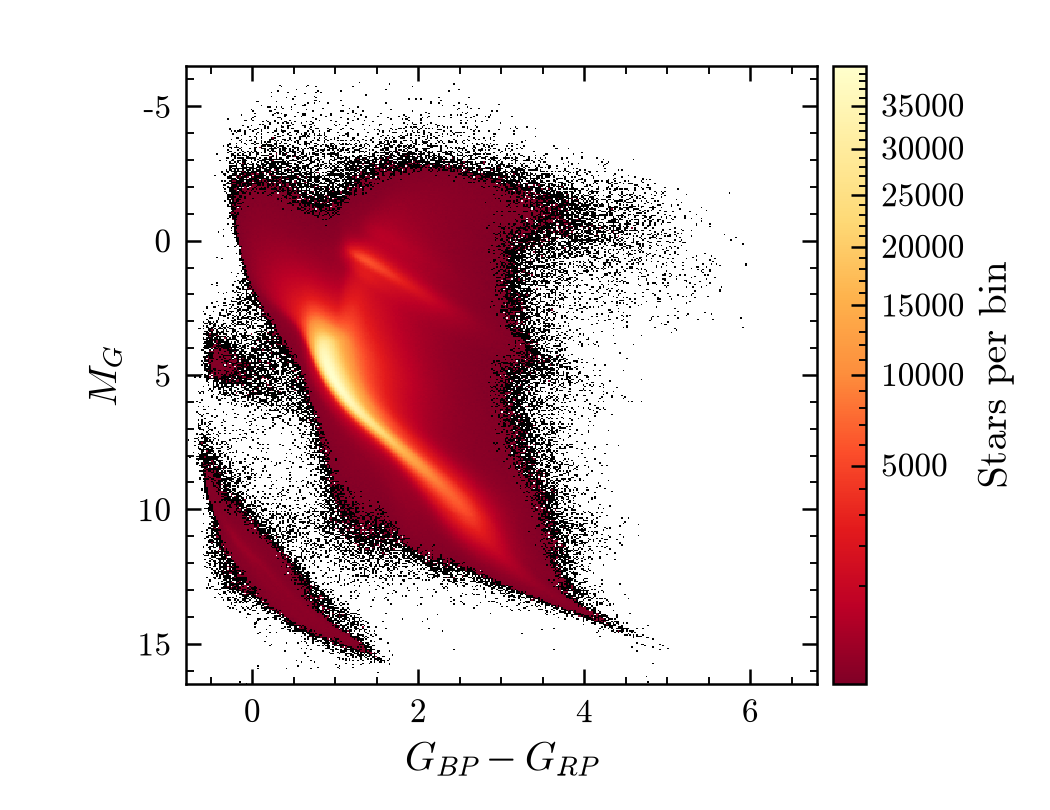
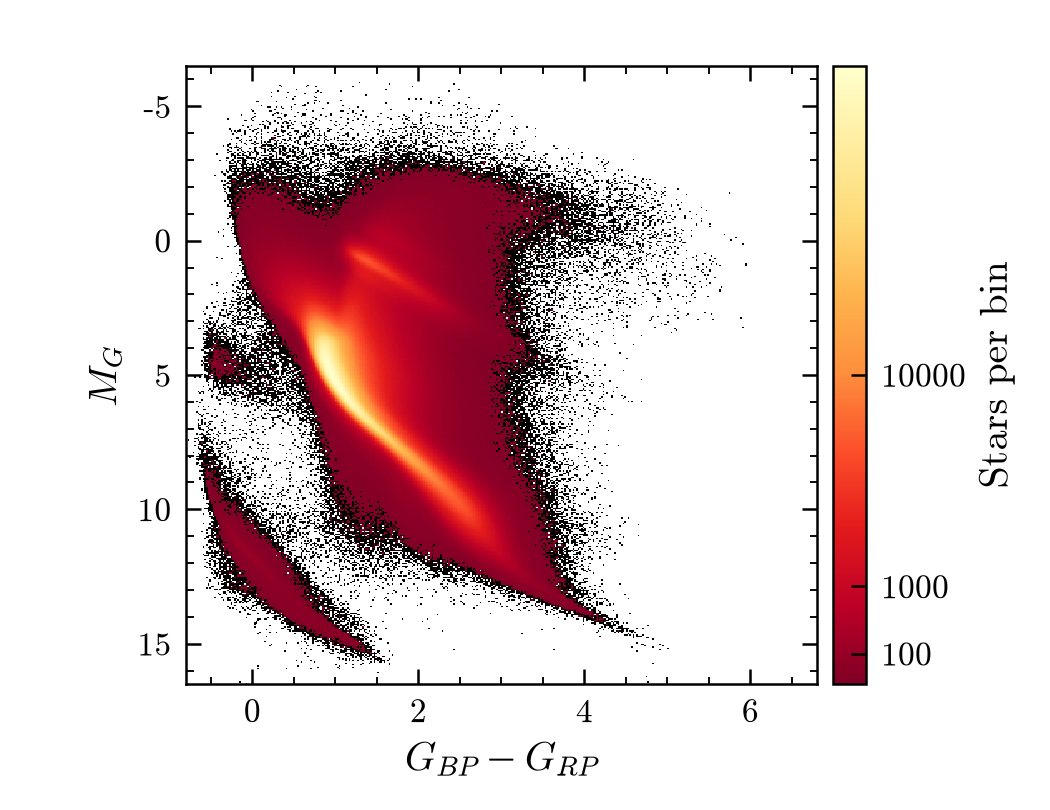
colorscale.py: tick power-scale colorbars at powers of ten
A colorbar on a square-root scale kept matplotlib's linear ticks (5000 ...
35000), crowded at its top while most colours sit below 5000. It is now ticked
at 100, 1000, 10000 like Gaia's, dropping a decade that would crowd the one
above.

diff --git a/examples/famous/colorscale.py b/examples/famous/colorscale.py
@@ -4,7 +4,8 @@ Adds four options to every kind, applied by a figure hook just before the figure
 is saved, to the 2D histograms and images of every panel (colorbars follow):
 
 - ``--zpower GAMMA``: a power-law colour scale, value**GAMMA; 0.5 is the
-  square root of the density of the Gaia DR2 HR diagrams (F22);
+  square root of the density of the Gaia DR2 HR diagrams (F22). The colorbar
+  is ticked at the powers of ten, as Gaia's is;
 - ``--zcmap NAME``: the colour map, also for 2D histograms (``--cmap`` reaches
   only ``-z`` images);
 - ``--zmin VALUE`` and ``--zunder COLOUR``: the bottom of the scale, and the
@@ -13,6 +14,7 @@ is saved, to the 2D histograms and images of every panel (colorbars follow):
 plotipus has no built-in equivalent yet: they belong to T22.3.
 """
 
+import numpy as np
 from matplotlib.collections import QuadMesh
 from matplotlib.colors import PowerNorm
 from matplotlib.image import AxesImage
@@ -52,4 +54,21 @@ def apply_colour_scale(fig, args):
             if under is not None:
                 mappable.set_cmap(mappable.get_cmap().with_extremes(under=under))
             if mappable.colorbar is not None:
-                mappable.colorbar.update_normal(mappable)
+                _update_colorbar(mappable.colorbar, mappable, gamma)
+
+
+def _update_colorbar(colorbar, mappable, gamma):
+    """Redraw the colorbar for the new scale: on a power scale, ticks at the
+    powers of ten (linear ticks would crowd its top). The --zunder colour is
+    not shown on the bar: its extension is chosen when plotipus creates it."""
+    colorbar.update_normal(mappable)
+    if gamma is not None:
+        low, high = mappable.norm.vmin, mappable.norm.vmax
+        decades = 10.0 ** np.arange(np.ceil(np.log10(max(low, 1e-12))), np.floor(np.log10(high)) + 1)
+        # From the top down, drop a decade that would sit within 6% of the bar of the one above.
+        kept = []
+        for value in decades[::-1]:
+            if not kept or mappable.norm(kept[-1]) - mappable.norm(value) >= 0.06:
+                kept.append(value)
+        colorbar.set_ticks(kept[::-1], labels=[f"{d:g}" for d in kept[::-1]])
+        colorbar.ax.minorticks_off()
